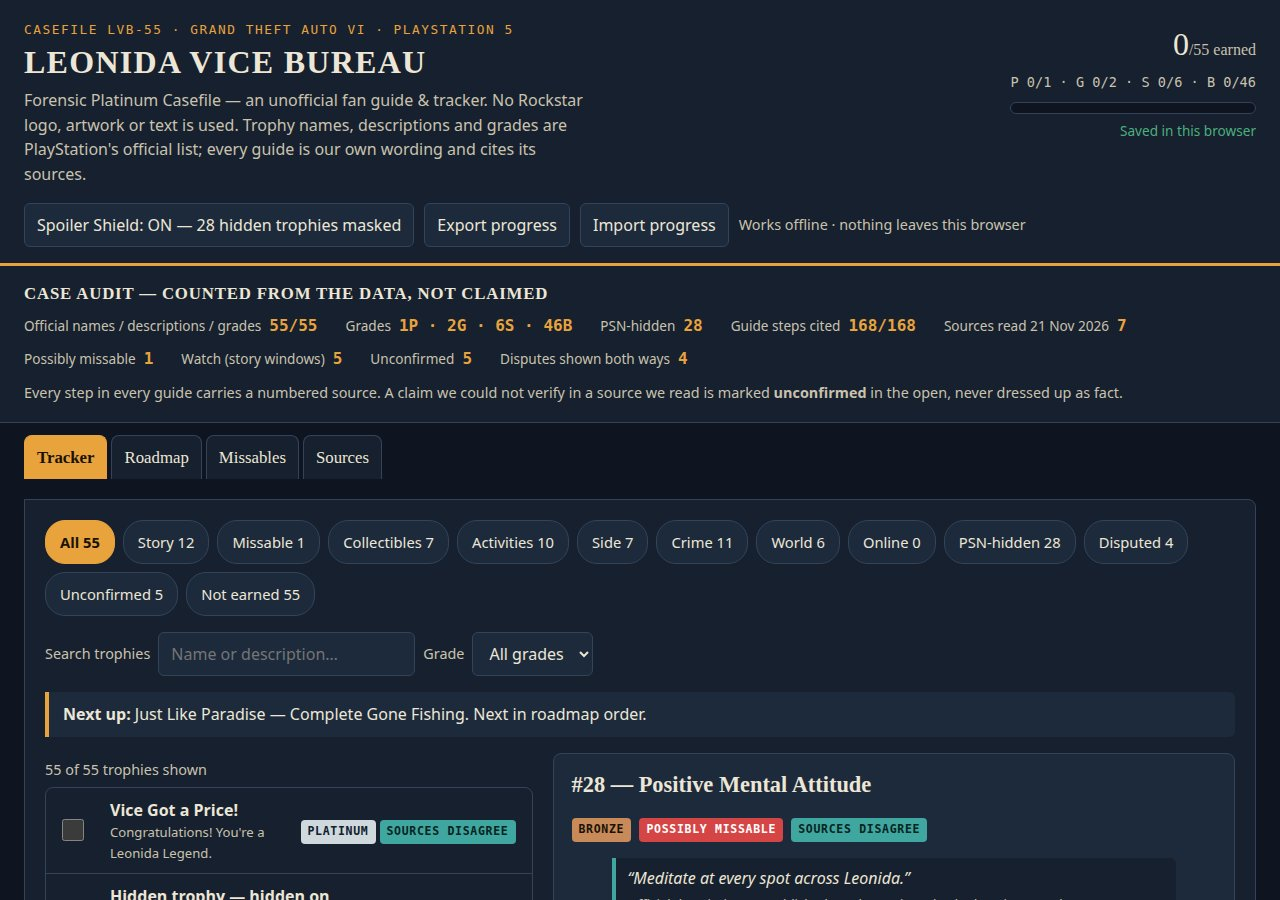
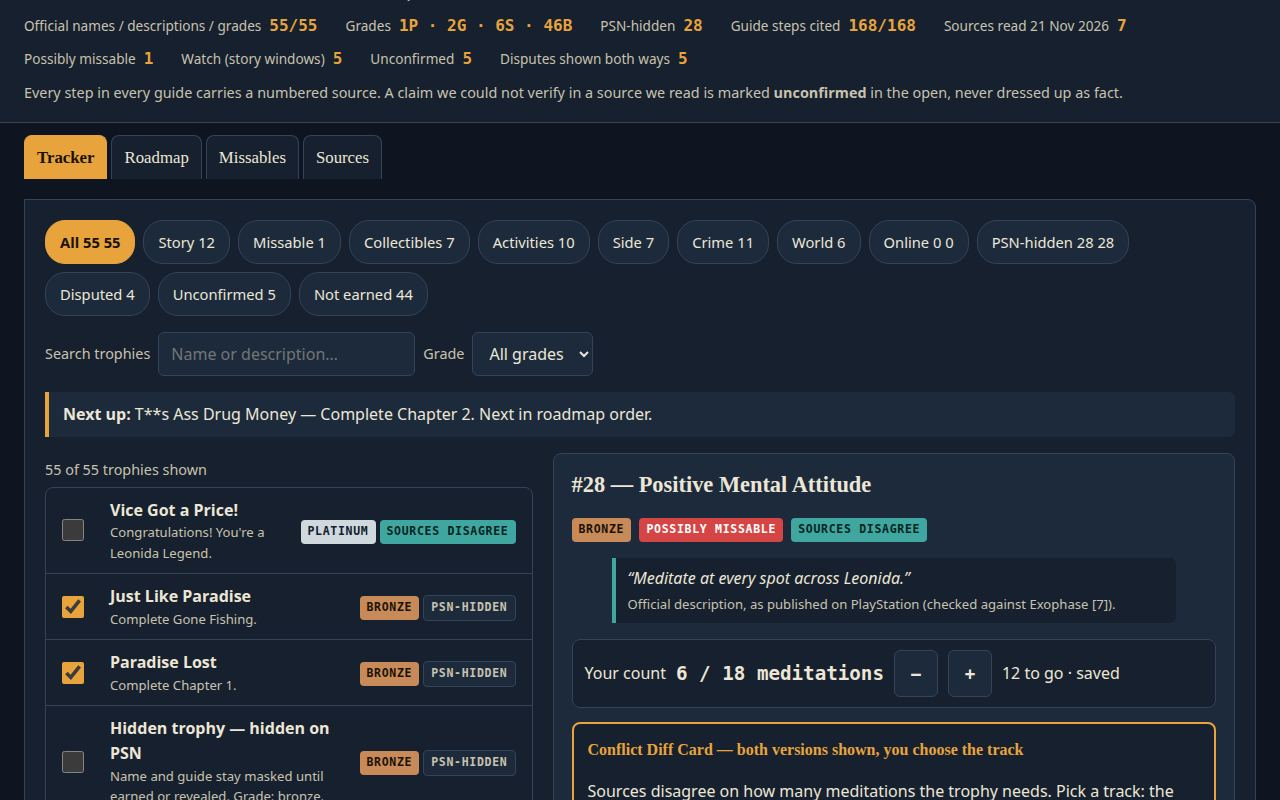
Revert "Fix chip count duplication and dispute-count mismatch"
This reverts commit 112e0d49e9d602f85816599723beceb1326c2965.

diff --git a/app/app.js b/app/app.js
@@ -64,15 +64,15 @@ function renderAudit() {
     ['Possibly missable', '1'],
     ['Watch (story windows)', '5'],
     ['Unconfirmed', '5'],
-    ['Disputes shown both ways', '4'],
+    ['Disputes shown both ways', '5'],
   ];
   $('auditList').innerHTML = items.map(([k, v]) => `<div><dt>${esc(k)}</dt><dd>${esc(v)}</dd></div>`).join('');
 }
 
 const CHIPS = [
-  ['all', 'All'], ['story', 'Story'], ['missable', 'Missable'], ['collectibles', 'Collectibles'],
+  ['all', 'All 55'], ['story', 'Story'], ['missable', 'Missable'], ['collectibles', 'Collectibles'],
   ['activities', 'Activities'], ['side', 'Side'], ['crime', 'Crime'], ['world', 'World'],
-  ['online', 'Online'], ['hidden', 'PSN-hidden'], ['disputed', 'Disputed'], ['unconfirmed', 'Unconfirmed'],
+  ['online', 'Online 0'], ['hidden', 'PSN-hidden 28'], ['disputed', 'Disputed'], ['unconfirmed', 'Unconfirmed'],
   ['notearned', 'Not earned'],
 ];
 function chipCount(name) {
